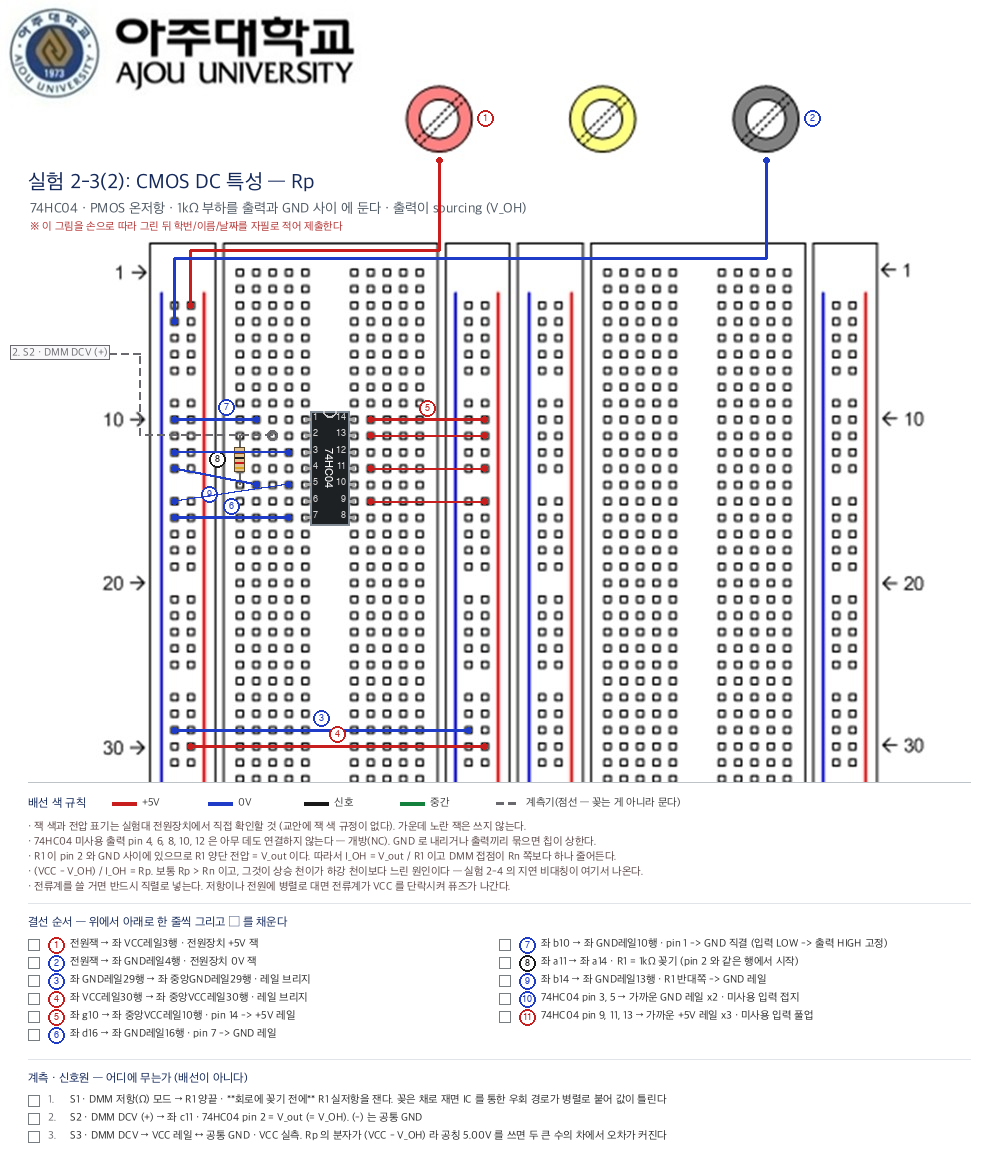
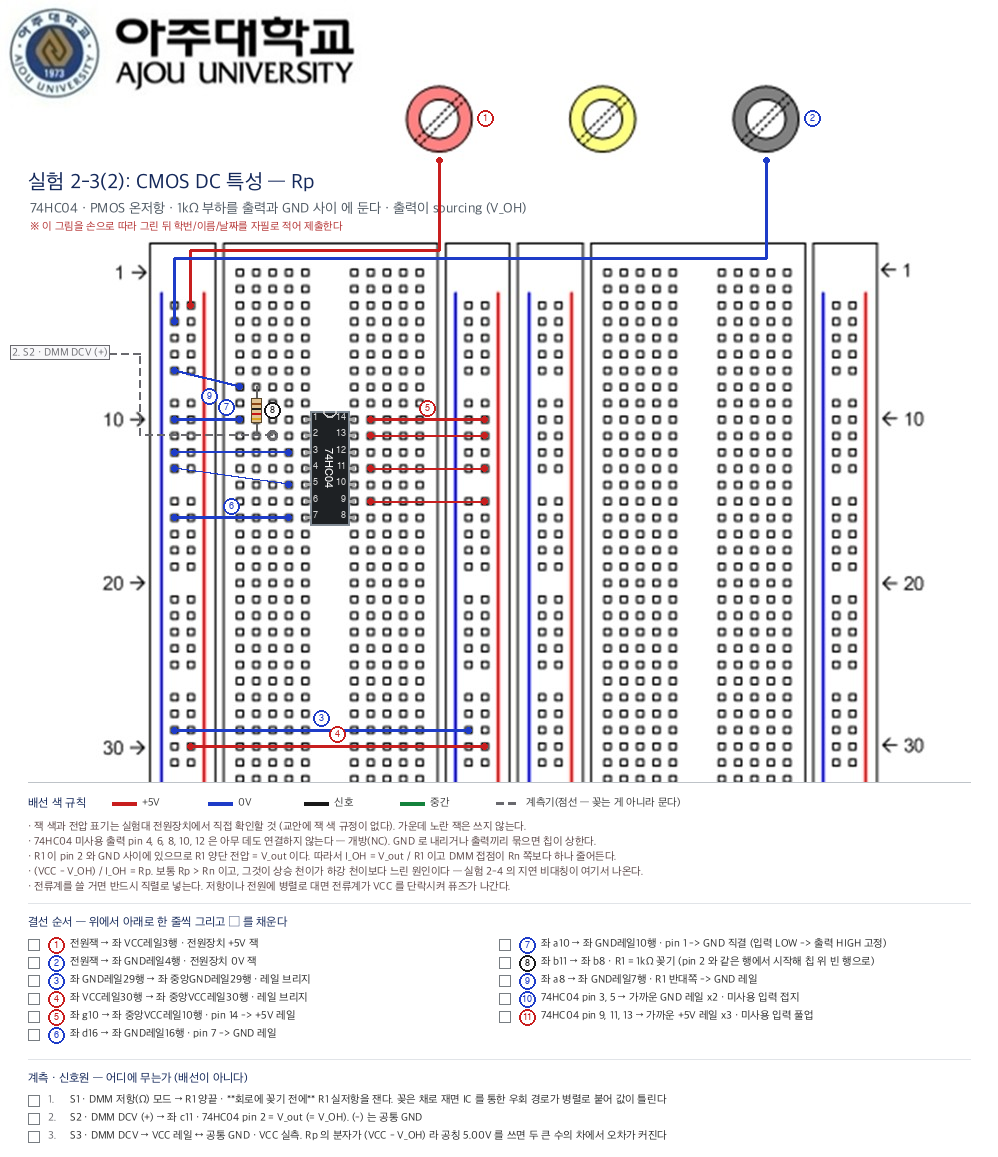
fix: 넷 검사가 부품 다리까지 본다 — 그리고 배포 PNG 를 코드에 맞춘다
R5ⓒ 는 칩 핀만 봤다. 양끝이 다 빈 스트립에 걸친 저항은 어떤 규칙도 안 보고
지나갔다 — 그림대로 꽂으면 부하 없이 V_OL 을 재게 되는데 실험실에서는 아무
이상이 없어 보인다. LED·저항 다리도 같은 규칙으로 본다. partial 이면 함께
건너뛴다. 다리 라벨은 _lead_labels() 한 자리에서 나와 nets() 와 말이 갈리지
않는다.

R5ⓑ(단락)는 치환하지 않은 넷에서 본다. 입력 점퍼의 레일 끝을 가상 노드로
바꾸면 그 배선이 실재로 잇고 있는 레일이 지워진다 — 입력 스트립이 이미 VCC 에
물려 있으면 그림 그대로가 GND↔VCC 직결인데 아무 일도 없어 보였다.
nets(substitute_inputs=False) 로 가른다.

input_node(name, x, row) 의 x·row 를 단언으로 바꾼다. 넷을 정하는 것은 seg
하나이고, seg = 직전 세그먼트라는 것은 비강제 관례였다. 이제 직전 배선의
끝점이 정말 그 홀인지 확인하고 아니면 그 자리에서 던진다.

배포용 실험02 Rn/Rp PNG 를 다시 뽑는다. ec0c4c4 가 저항 위치를 고쳤지만 PNG
는 그대로여서, HEAD 에 실린 그림은 1kΩ 아랫다리가 pin 5 행에 앉아 +5V 를
GND 로 직결시키는 그 그림이었다. 나머지 세 장은 현재 렌더러와 바이트까지
같아 건드리지 않았다.

draw_wire() 를 정당화하던 주석 셋이 사실과 달랐다. e2 빌더가 옛 API·옛
팔레트를 쓴다고 했는데 13장 빌더가 전부 enable_steps() + step_wire() 에 네
색 팔레트이고 draw_wire() 는 호출자가 하나도 없다. 그것이 _segments·_leads
에 아무것도 안 남겨 R1~R5 를 통째로 우회한다는 것을 독스트링에 적는다.

R5ⓒ 면제 키에 칩 라벨이 없는 이유를 그 자리에 남긴다 — 넣으면 build_e2_tpd
의 mark_unused_outputs(chip='U2') 와 키가 어긋나 깨지고, 키의 유일성은 관례가
아니라 R2 가 강제한다.

LED 사슬 조각 판 시험 둘은 partial 로 표시했다. 신호선 반대쪽에 칩이 없는
일부러 덜 그린 판이라 '아무 데도 안 물렸다' 갈래만 뺀다 (R1~R4 는 다 돈다).

diff --git a/.claude/skills/breadboard-diagram/scripts/render_breadboard.py b/.claude/skills/breadboard-diagram/scripts/render_breadboard.py
@@ -143,9 +143,9 @@ class BreadboardRenderer:
         self._segments = []
         self.overlap_policy = 'strict'
         self.overlap_warnings = []
-        # 번호 매기기는 e1 계열(손스케치용 원도)만 켠다. e2 빌더들은 아직
-        # 옛 API(draw_wire) 를 쓰므로 순서표가 반쪽이 된다 — 반쪽 표는 없는
-        # 것보다 나쁘다
+        # 결선 순서표와 번호 원을 켜는 스위치. **지금은 13장 빌더가 전부 켠다** —
+        # e1 계열도 e2 계열도 `enable_steps()` + `step_wire()` 에 네 색 팔레트(`WIRE`)를
+        # 쓴다. 옛 `draw_wire()` 를 쓰는 빌더는 하나도 없다 (2026-09-10 확인)
         self.numbered = False
         # 보드 밖으로 뺀 규칙 문구. 배선이 아니라 배선의 *이유* 라서 손으로
         # 옮겨 그릴 대상이 아니다 — 보드 위에 두면 그릴 홀만 가린다
@@ -155,8 +155,9 @@ class BreadboardRenderer:
         # 입력 점퍼가 꽂힌 자리. 넷 검사가 레일 쪽 끝을 **가상 입력 노드**로
         # 바꿔 세는 데 쓴다 — `input_node()` 주석 참조
         self.inputs = []
-        # 일부러 덜 그린 그림인가 (복합 회로 누적 1·2단계). 뜬 핀 검사만
-        # 건너뛴다 — 같은 스트립 점퍼도 전원 단락도 덜 그렸다고 봐줄 것이 아니다
+        # 일부러 덜 그린 그림인가 (복합 회로 누적 1·2단계). '아무 데도 안 물렸다'
+        # 갈래만 건너뛴다 — 칩 핀도 부품 다리도 아직 안 붙었을 수 있다. 같은
+        # 스트립 점퍼도 전원 단락도 덜 그렸다고 봐줄 것이 아니다
         self.partial = False
         self.title = ""
         self.subtitle = ""
@@ -494,7 +495,13 @@ class BreadboardRenderer:
         self.draw.text((x, y), text, fill=text_col, font=font)
 
     def draw_wire(self, points, color, width=3):
-        """번호 없는 생짜 배선. e2 빌더들이 아직 이걸 쓴다."""
+        """번호 없는 생짜 배선. **지금 이 함수를 부르는 빌더는 하나도 없다.**
+
+        `_segments` 에도 `_leads` 에도 아무것도 남기지 않는다 — 그래서 이걸로 그린
+        선은 `verify()` 를 통째로 우회한다. 끝점이 홀인지(R1), 한 홀에 리드가
+        둘인지(R2), 다른 배선 아래 깔리는지(R3·R4), 무엇과 무엇을 잇는지(R5)
+        아무도 보지 않는다. 순서표에도 안 오른다. `step_wire()` 를 써라.
+        """
         self.draw.line(points, fill=color, width=width, joint='curve')
         for p in (points[0], points[-1]):
             self.draw.ellipse([p[0]-3, p[1]-3, p[0]+3, p[1]+3], fill=color)
@@ -863,8 +870,8 @@ class BreadboardRenderer:
         d.line([(x_pad, y0), (998 - x_pad, y0)], fill=(190, 195, 200, 255), width=1)
         y = y0 + 14
 
-        # 색 규칙 범례는 넷으로 고정된 그림에만. e2 빌더들은 아직 옛 팔레트를
-        # 쓰므로 범례를 붙이면 거짓말이 된다
+        # 색 규칙 범례는 순서표를 켠 그림에만 붙인다. 지금은 13장 빌더가 전부
+        # 켜므로 전부 붙고, 전부 참이다 — e1·e2 가릴 것 없이 `WIRE` 네 색만 쓴다
         if self.numbered:
             d.text((x_pad, y), "배선 색 규칙", fill=(20, 40, 90, 255), font=self.font_kr_bold)
             x = x_pad + 84
@@ -990,9 +997,21 @@ class BreadboardRenderer:
         1 을 줄 때는 레일 쪽 끝만 VCC 레일로 옮긴다. 넷 검사가 이걸 레일
         연결로 세면 입력 A·B·C 가 GND 와 한 넷이 되어 "pin 1 이 입력 A 에
         물렸는가" 를 물을 수 없다. 그래서 그 끝을 가상 입력 노드로 바꿔 센다.
+
+        넷을 정하는 것은 `seg` 하나다. `x`·`row` 는 좌표를 뜻하는 인자가 아니라
+        **직전 세그먼트가 정말 그 홀에서 끝났는지 확인하는 단언**이다 — "이
+        함수는 `step_wire()` 바로 뒤에 온다" 는 관례를 여기서 강제한다. 관례로
+        두면 사이에 배선 한 줄이 끼는 순간 엉뚱한 세그먼트의 끝이 가상 노드로
+        바뀌고, 그림은 멀쩡하게 나온다.
         """
-        self.inputs.append({'name': name, 'at': self.sym(x, row),
-                            'seg': len(self._segments) - 1})
+        seg = len(self._segments) - 1
+        assert seg >= 0, f'input_node({name}) 앞에 step_wire() 가 없다'
+        ex, ey = self._segments[seg][1][-1]
+        end, here = self.sym(ex, self._row_of(ey)), self.sym(x, row)
+        assert end == here, (
+            f'input_node({name}) 이 가리키는 홀 {here} 이 직전 배선의 끝점 {end} 과 '
+            f'다르다 — input_node() 는 그 입력 점퍼를 그린 step_wire() 바로 뒤에 와야 한다')
+        self.inputs.append({'name': name, 'at': here, 'seg': seg})
 
     _AE = ('a', 'b', 'c', 'd', 'e')
     _FJ = ('f', 'g', 'h', 'i', 'j')
@@ -1017,7 +1036,22 @@ class BreadboardRenderer:
         """칩 핀의 넷 라벨. 한 그림에 같은 칩이 둘이면(`e2_tpd`) 행으로 갈린다."""
         return f"{ch['label']}#{ch['pin1_row']} pin {p}"
 
-    def nets(self):
+    def _lead_labels(self):
+        """부품 다리의 (넷 라벨, 기호 좌표) 목록. LED 두 다리, 저항 두 다리.
+
+        `nets()` 와 R5ⓒ 가 **같은 말**을 써야 해서 한 자리에 둔다 — 한쪽만
+        고치면 "뜬 다리" 판정이 자기 라벨을 넷에서 못 찾고 조용히 넘어간다.
+        """
+        out = []
+        for led in self.leds:
+            out.append((f"LED {led['tag']} 애노드", led['anode']))
+            out.append((f"LED {led['tag']} 캐소드", led['cathode']))
+        for i, r in enumerate(self.resistors, 1):
+            out.append((f"저항{i}({r['label']}) 윗다리", r['top']))
+            out.append((f"저항{i}({r['label']}) 아랫다리", r['bottom']))
+        return out
+
+    def nets(self, substitute_inputs=True):
         """그린 것을 **전기적 넷**으로 묶어 낸다.
 
         -> `[{'labels': {'74HC32#10 pin 1', '입력 A', ...}, 'rails': {'vcc'}}, ...]`
@@ -1028,6 +1062,11 @@ class BreadboardRenderer:
 
         `desc` 문자열은 읽지 않는다. `chips`·`leds`·`resistors`·`_segments`·
         `inputs` 라는 **구조**만 읽는다 — 말이 바뀔 때 조용히 깨지지 않도록.
+
+        `substitute_inputs=False` 면 입력 점퍼의 레일 끝을 **치환하지 않는다.**
+        치환된 넷은 "무엇이 무엇에 물렸는가" 를 묻기 위한 것이라 그 배선이 실재로
+        잇고 있는 레일을 지운다 — 그림 그대로 꽂았을 때의 단락(R5ⓑ)은 지우지
+        않은 넷에서만 보인다. 라벨·뜬 핀 판정은 치환한 넷을 쓴다.
         """
         uf = {}
 
@@ -1053,21 +1092,19 @@ class BreadboardRenderer:
         for ch in self.chips:
             for p, sym in ch['pins'].items():
                 put(self._strip(sym), self._pin_label(ch, p))
-        for led in self.leds:
-            put(self._strip(led['anode']), f"LED {led['tag']} 애노드")
-            put(self._strip(led['cathode']), f"LED {led['tag']} 캐소드")
-        for i, r in enumerate(self.resistors, 1):
-            put(self._strip(r['top']), f"저항{i}({r['label']}) 윗다리")
-            put(self._strip(r['bottom']), f"저항{i}({r['label']}) 아랫다리")
+        for label, sym in self._lead_labels():
+            put(self._strip(sym), label)
         for x, name in self._addr_map.items():
             if x in self._rail_xs():
                 put(('rail', x), name)
 
-        # 입력 점퍼는 레일 쪽 끝을 가상 노드로 바꾼다 (`input_node()` 참조)
+        # 입력 점퍼는 레일 쪽 끝을 가상 노드로 바꾼다 (`input_node()` 참조).
+        # 끄면 그린 그대로 — 레일 끝이 레일로 남는다
         sub = {}
-        for inp in self.inputs:
-            sub[inp['seg']] = ('input', inp['name'])
-            put(('input', inp['name']), f"입력 {inp['name']}")
+        if substitute_inputs:
+            for inp in self.inputs:
+                sub[inp['seg']] = ('input', inp['name'])
+                put(('input', inp['name']), f"입력 {inp['name']}")
 
         for i, (kind, pts, desc) in enumerate(self._segments):
             ends = []
@@ -1111,7 +1148,8 @@ class BreadboardRenderer:
         R3  배선 끝점·부품 다리 위를 다른 배선이 지나가지 않는다 — 넷 무관.
         R4  서로 다른 배선이 같은 축 위에 포개지지 않는다 (`overlap_policy`).
         R5  넷이 말이 된다 — 같은 스트립 안에서 끝나는 점퍼가 없고, +5V 와
-            GND 가 한 넷이 아니며, 아무 데도 안 물린 칩 핀이 없다.
+            GND 가 한 넷이 아니며(치환하지 않은 넷에서 본다), 아무 데도 안 물린
+            칩 핀도 부품 다리도 없다.
         그리고 레일 연결성 — 같은 전원을 나르는 레일이 브리지로 이어져 있는가.
 
         R1~R4 는 전부 **기하**다. 2026-09-09 까지 "이 배선이 무엇을 잇는가" 는
@@ -1154,27 +1192,49 @@ class BreadboardRenderer:
                 r5.append(f'같은 스트립 안에서 끝나는 점퍼(전기적으로 무의미): {desc}')
 
         nets = self.nets()
-        for net in nets:
+        # 단락만은 **치환하지 않은 넷**에서 본다. 입력 점퍼가 지금 꽂혀 있는
+        # 레일은 가상 노드가 아니라 실재 배선이다 — 그 점퍼가 꽂힌 스트립이
+        # 이미 VCC 에 물려 있으면 그림 그대로가 GND↔VCC 직결인데, 치환한 넷에서는
+        # 그 레일이 지워져 아무 일도 없어 보인다
+        for net in self.nets(substitute_inputs=False):
             if {'vcc', 'gnd'} <= net['rails']:
                 r5.append('+5V 와 GND 가 한 넷이다 — 단락: '
                           + ', '.join(sorted(net['labels'])))
 
-        # 뜬 핀. 미사용 출력(개방 NC)과 계측기가 무는 핀은 뺀다 — 실험02 는
-        # 점퍼가 아니라 프로브로 신호를 넣고 뺀다. 덜 그린 그림(`partial`)도 뺀다
+        # 아무 데도 안 물린 것. 넷에 자기 라벨 하나뿐이면 그림에는 있으되
+        # 회로에는 없다. 미사용 출력(개방 NC)과 계측기가 무는 자리는 뺀다 —
+        # 실험02 는 점퍼가 아니라 프로브로 신호를 넣고 뺀다. 덜 그린
+        # 그림(`partial`)도 통째로 뺀다: 칩 핀도 부품 다리도 아직 안 붙었을 수 있다
         probe_strips = {self._strip(p['sym']) for p in self.probes if p.get('sym')}
+        # 면제 키에 **칩 라벨이 없다.** 넣으면 `build_e2_tpd` 가 깨진다 — 거기서
+        # `draw_chip` 라벨은 '74HC04' 인데 `mark_unused_outputs(chip='U2')` 라
+        # 키가 어긋나고, U2 의 미사용 출력 6개가 전부 뜬 핀 오탐이 된다.
+        # 그리고 "같은 블록·같은 pin1_row 에 칩 둘은 없다" 는 것은 관례가 아니라
+        # **R2 가 강제한다** — 그렇게 두면 `draw_chip` 이 e·f 열 홀에 리드를 둘씩
+        # 꽂아 `_double` 에 걸리고, 그건 R5 보다 먼저 던진다
         open_pins = {(u['block'], u['pin1_row'], u['pin']) for u in self.unused_outputs}
-        for ch in ([] if self.partial else self.chips):
-            for p, sym in ch['pins'].items():
-                if (ch['block'], ch['pin1_row'], p) in open_pins:
-                    continue
-                if self._strip(sym) in probe_strips:
-                    continue
-                lab = self._pin_label(ch, p)
-                for net in nets:
-                    if lab in net['labels']:
-                        if len(net['labels']) == 1:
-                            r5.append(f'{lab} 이 아무 데도 안 물렸다 — 뜬 핀')
-                        break
+        # (라벨, 스트립, 조사, 무엇이라 부를지). 칩 핀만 보던 것을 부품 다리까지 넓혔다 —
+        # 양끝이 다 빈 스트립에 걸친 저항은 아무 규칙도 안 보고 지나갔고, 그림대로
+        # 꽂으면 무부하 V_OL 을 재게 되는데 **실험실에서는 아무 이상이 없어 보인다.**
+        # 짝이 있는 다리는 넷에 라벨이 둘 이상이라(예: {저항1(1kΩ) 윗다리, 좌
+        # VCC레일}) 오탐이 나지 않는다
+        checked = []
+        if not self.partial:
+            for ch in self.chips:
+                for p, sym in ch['pins'].items():
+                    if (ch['block'], ch['pin1_row'], p) in open_pins:
+                        continue
+                    checked.append((self._pin_label(ch, p), self._strip(sym), '이', '뜬 핀'))
+            for label, sym in self._lead_labels():
+                checked.append((label, self._strip(sym), '가', '뜬 다리'))
+        for lab, strip, josa, what in checked:
+            if strip in probe_strips:
+                continue
+            for net in nets:
+                if lab in net['labels']:
+                    if len(net['labels']) == 1:
+                        r5.append(f'{lab} {josa} 아무 데도 안 물렸다 — {what}')
+                    break
 
         if r5:
             raise AssertionError('넷이 틀렸다:\n  ' + '\n  '.join(r5))

diff --git a/tests/test_breadboard_nets.py b/tests/test_breadboard_nets.py
@@ -219,6 +219,43 @@ class R5(unittest.TestCase):
         with self.assertRaisesRegex(AssertionError, '같은 스트립'):
             bb.verify()
 
+    def test_양끝이_빈_스트립인_부품_다리는_막힌다(self):
+        """뜬 핀만 보던 시절, 허공에 걸친 저항은 어떤 규칙도 안 봤다. 그림대로
+        꽂으면 부하가 안 달린 채로 V_OL 을 재게 되고 **실험실에서는 아무 이상이
+        없어 보인다** — 눈으로도 계측으로도 안 잡히는 자리다."""
+        bb = self.board()
+        c = bb.cols['left']
+        bb.draw_resistor(c['c'], bb.r_y(21), bb.r_y(24), label="1kΩ")
+        with self.assertRaises(AssertionError) as e:
+            bb.verify()
+        self.assertIn('저항1(1kΩ) 윗다리 가 아무 데도 안 물렸다 — 뜬 다리', str(e.exception))
+        self.assertIn('저항1(1kΩ) 아랫다리 가 아무 데도 안 물렸다 — 뜬 다리', str(e.exception))
+
+        # 아랫다리를 레일에 물리면 그 다리는 더 이상 뜨지 않는다
+        bb.step_wire([(c['a'], bb.r_y(24)), (c['gnd'], bb.r_y(24))], 'gnd', '아랫다리 -> GND')
+        with self.assertRaises(AssertionError) as e:
+            bb.verify()
+        self.assertNotIn('아랫다리 가', str(e.exception))
+        self.assertIn('윗다리 가', str(e.exception))
+
+        # 윗다리까지 물리면 통과한다 — 짝이 붙은 다리는 넷에 라벨이 둘 이상이다
+        bb.step_wire([(c['a'], bb.r_y(21)), (c['gnd'], bb.r_y(21))], 'gnd', '윗다리 -> GND')
+        bb.verify()
+
+    def test_입력_점퍼가_꽂힌_스트립이_VCC_에_물리면_단락이다(self):
+        """입력 점퍼의 레일 끝은 라벨 판정에서만 가상 노드다. 그림에 그려진
+        배선은 GND 레일에 실제로 꽂혀 있으므로, 그 스트립이 VCC 에도 물리면
+        그림 그대로가 GND↔VCC 직결이다 — 치환한 넷에서는 안 보인다."""
+        bb = self.board()
+        c = bb.cols['left']
+        self.mod._input_jumper(bb, c, 20, 'A', '어딘가')
+        # 같은 스트립(좌 a~e 20행)에서 VCC 로. 가로선이 입력선 끝점 b20 위를
+        # 지나지 않도록 d 열에서 세로로 빠져나간 뒤 17행에서 레일로 간다
+        bb.step_wire([(c['d'], bb.r_y(20)), (c['d'], bb.r_y(17)), (c['vcc'], bb.r_y(17))],
+                     'vcc', '입력 스트립 -> +5V')
+        with self.assertRaisesRegex(AssertionError, '단락'):
+            bb.verify()
+
     def test_모든_회로가_넷_검사를_통과한다(self):
         """`export()` 안에서 `verify()` 가 돈다 — 렌더가 되면 통과한 것이다."""
         import inspect

diff --git a/tests/test_breadboard_physical.py b/tests/test_breadboard_physical.py
@@ -215,6 +215,9 @@ class PhysicalRules(unittest.TestCase):
     def test_LED_사슬은_다리마다_다른_홀을_쓴다(self):
         bb = self.board()
         c = bb.cols['left']
+        # 이 판은 **일부러 덜 그린 조각**이다 — c15 에 칩이 없어 신호선 반대쪽이
+        # 빈 스트립이다. R5 의 '아무 데도 안 물렸다' 갈래만 뺀다 (R1~R4 는 다 돈다)
+        bb.partial = True
         bb.step_wire([(c['c'], bb.r_y(15)), (c['c'], bb.r_y(24))], 'sig', '출력 -> L2')
         bb.led_chain(c['c'], 24, 'L2', '최종 출력')
         bb.verify()
@@ -231,6 +234,7 @@ class PhysicalRules(unittest.TestCase):
     def test_오른쪽_끝_열의_LED_사슬은_왼쪽으로_자란다(self):
         bb = self.board()
         c = bb.cols['right']
+        bb.partial = True   # 위와 같은 조각 판이다 — d12 에 칩이 없다
         bb.step_wire([(c['d'], bb.r_y(12)), (c['d'], bb.r_y(22))], 'sig', 'pin 3 -> X')
         bb.led_chain(c['d'], 22, 'X', 'X 출력', block='right')
         bb.verify()
